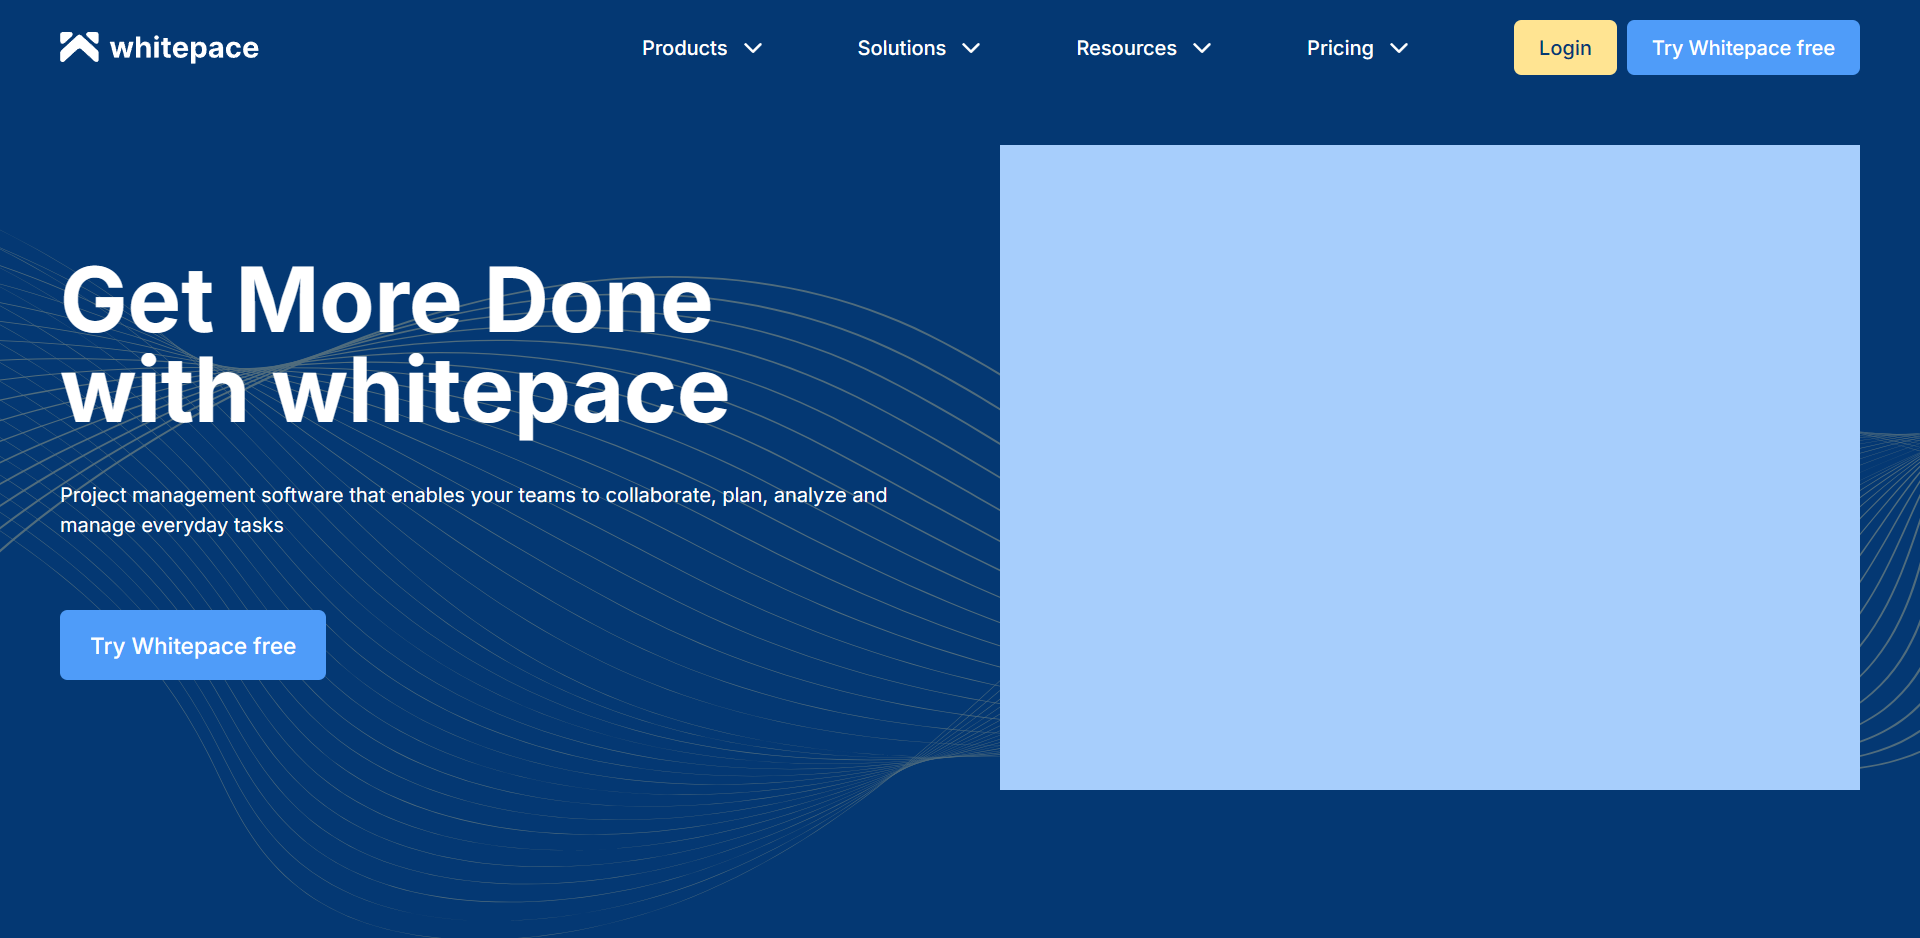
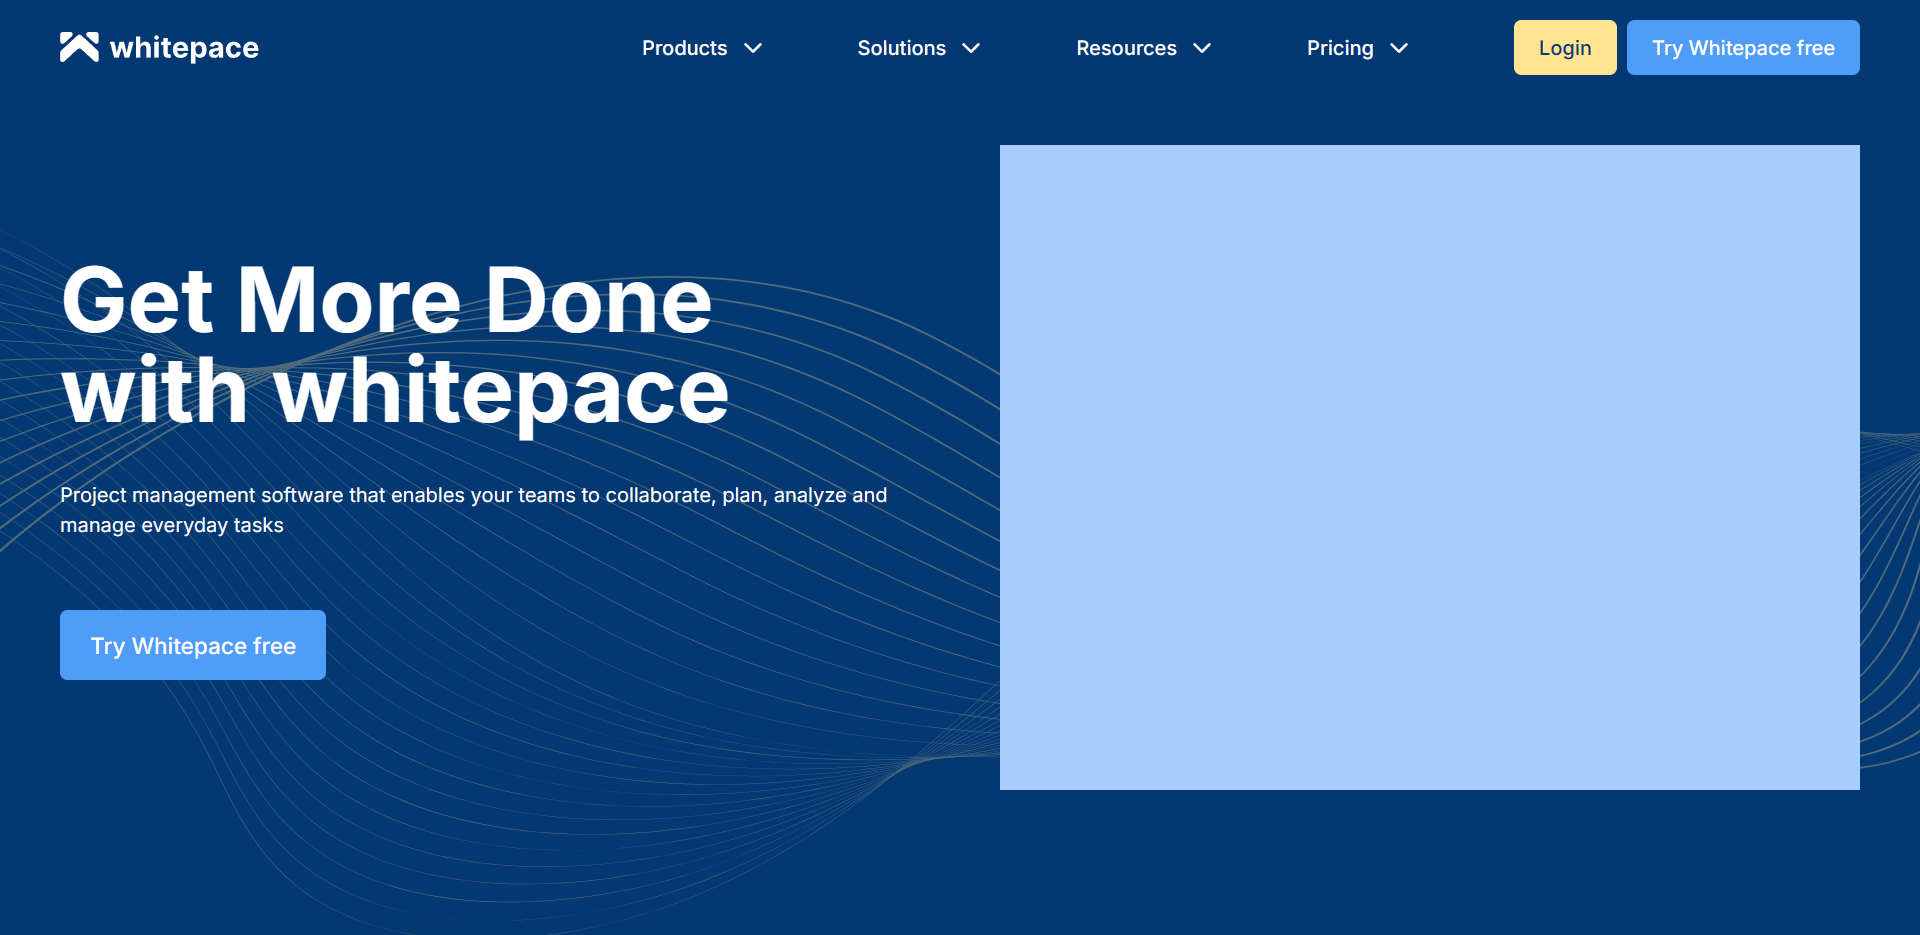
fix(projects): update project card styles and remove unused assets

diff --git a/components/ui/project-card.tsx b/components/ui/project-card.tsx
@@ -1,6 +1,6 @@
 import Image from "next/image";
 import { useTranslations } from "next-intl";
-import { ExternalLink, Github } from "lucide-react";
+import { ExternalLink } from "lucide-react";
 
 import type { Project } from "@/types/project";
 
@@ -18,7 +18,7 @@ export default function ProjectCard({ project }: ProjectCardProps) {
   const projectKey = `items.${project.translationKey}`;
 
   return (
-    <Card className="h-full transition-colors hover:border-primary/30">
+    <Card className="h-full p-0 transition-colors hover:border-primary/30">
       <div className="relative aspect-video overflow-hidden bg-muted">
         <Image
           src={project.image}
@@ -30,9 +30,7 @@ export default function ProjectCard({ project }: ProjectCardProps) {
 
         <div className="absolute inset-x-3 top-3 flex justify-end">
           <Badge
-            variant={
-              project.status === "completed" ? "secondary" : "default"
-            }
+            variant={project.status === "completed" ? "secondary" : "default"}
             className="bg-background/90 text-foreground shadow-sm backdrop-blur"
           >
             {t(`status.${project.status}`)}
@@ -73,11 +71,17 @@ export default function ProjectCard({ project }: ProjectCardProps) {
               target="_blank"
               rel="noopener noreferrer"
               className={buttonVariants({
-                variant: "outline",
-                size: "sm",
+                variant: "secondary",
+                size: "lg",
+                className: "flex-1 flex items-center gap-2",
               })}
             >
-              <Github />
+              <Image
+                src="/icons/skills/github.svg"
+                alt="GitHub"
+                width={16}
+                height={16}
+              />
               {t("github")}
             </a>
           )}
@@ -88,7 +92,8 @@ export default function ProjectCard({ project }: ProjectCardProps) {
               target="_blank"
               rel="noopener noreferrer"
               className={buttonVariants({
-                size: "sm",
+                size: "lg",
+                className: "flex-1 flex items-center gap-2",
               })}
             >
               <ExternalLink />

diff --git a/data/projects.ts b/data/projects.ts
@@ -72,17 +72,6 @@ export const projects: Project[] = [
     image: "/imgs/projects/prayer-times-app.png",
     technologies: ["HTML", "CSS", "JavaScript"],
     status: "completed",
-    github: "https://github.com/MoSokara/loan-form-by-react.git",
-    live: "https://mosokara.github.io/Prayer-Times-App/",
-  },
-
-  // Prayer Times App
-  {
-    id: "prayer-times-app",
-    translationKey: "prayer-times-app",
-    image: "/imgs/projects/prayer-times-app.png",
-    technologies: ["HTML", "CSS", "JavaScript"],
-    status: "completed",
     github: "https://github.com/MoSokara/Prayer-Times-App.git",
     live: "https://mosokara.github.io/Prayer-Times-App/",
   },
